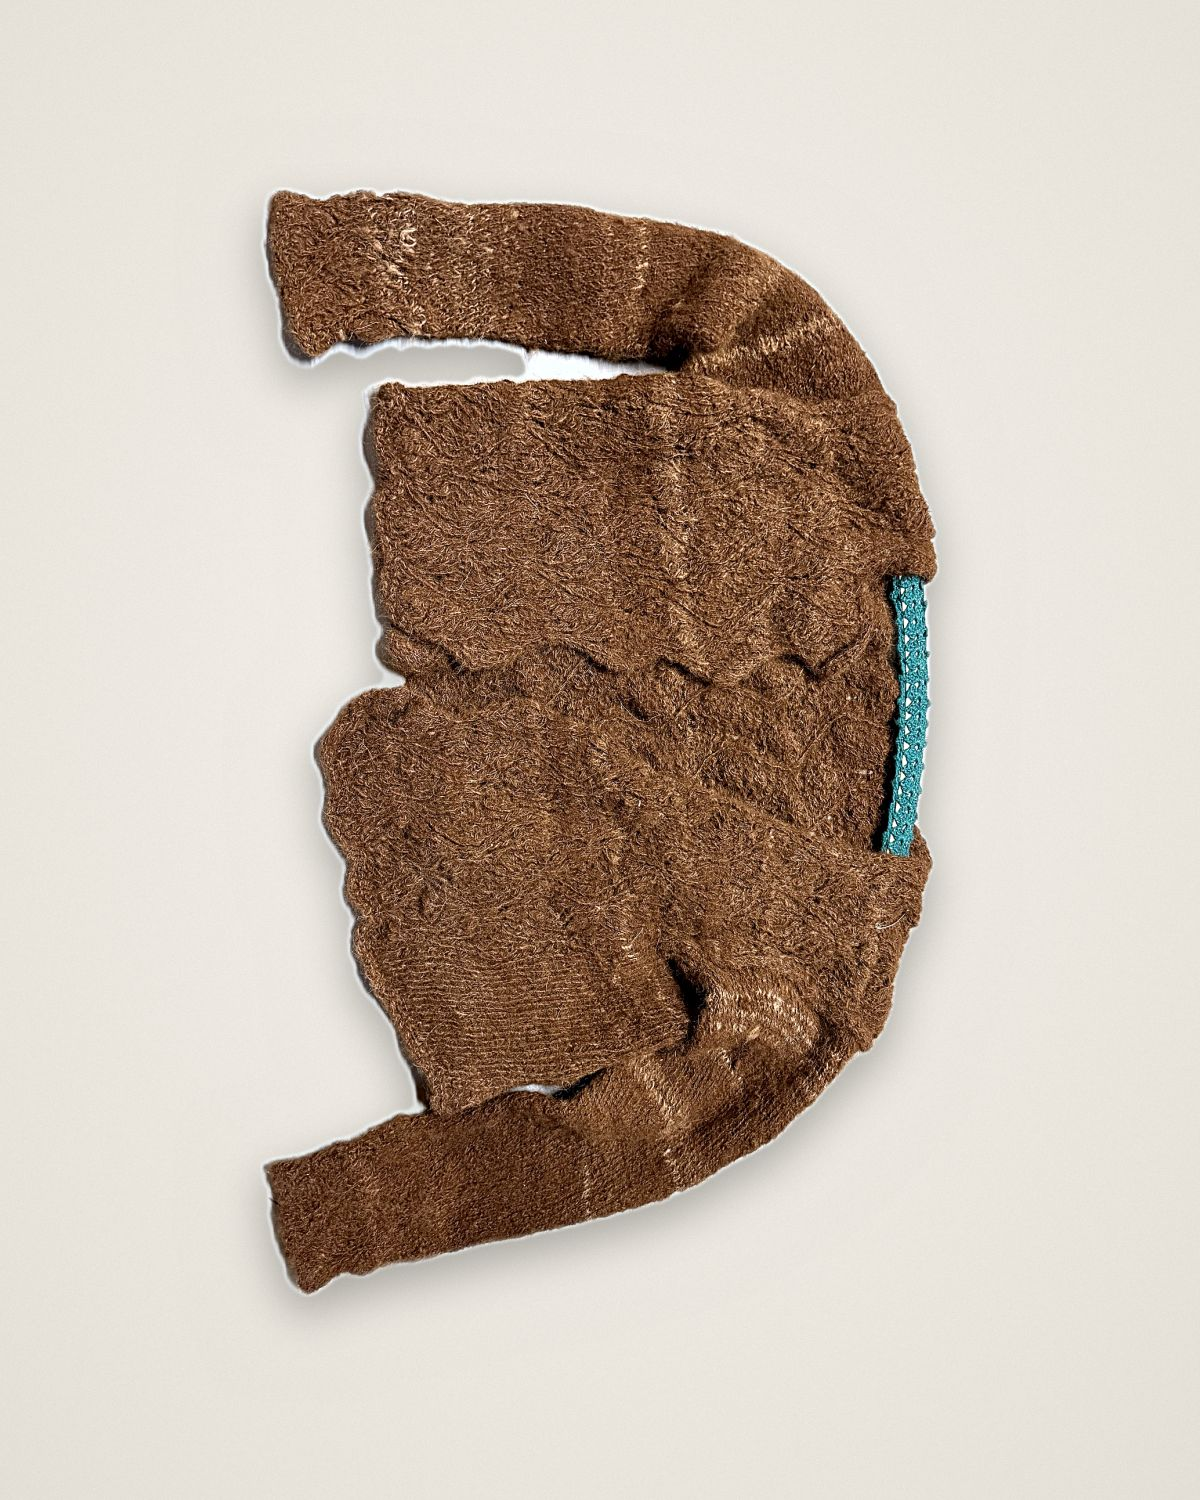
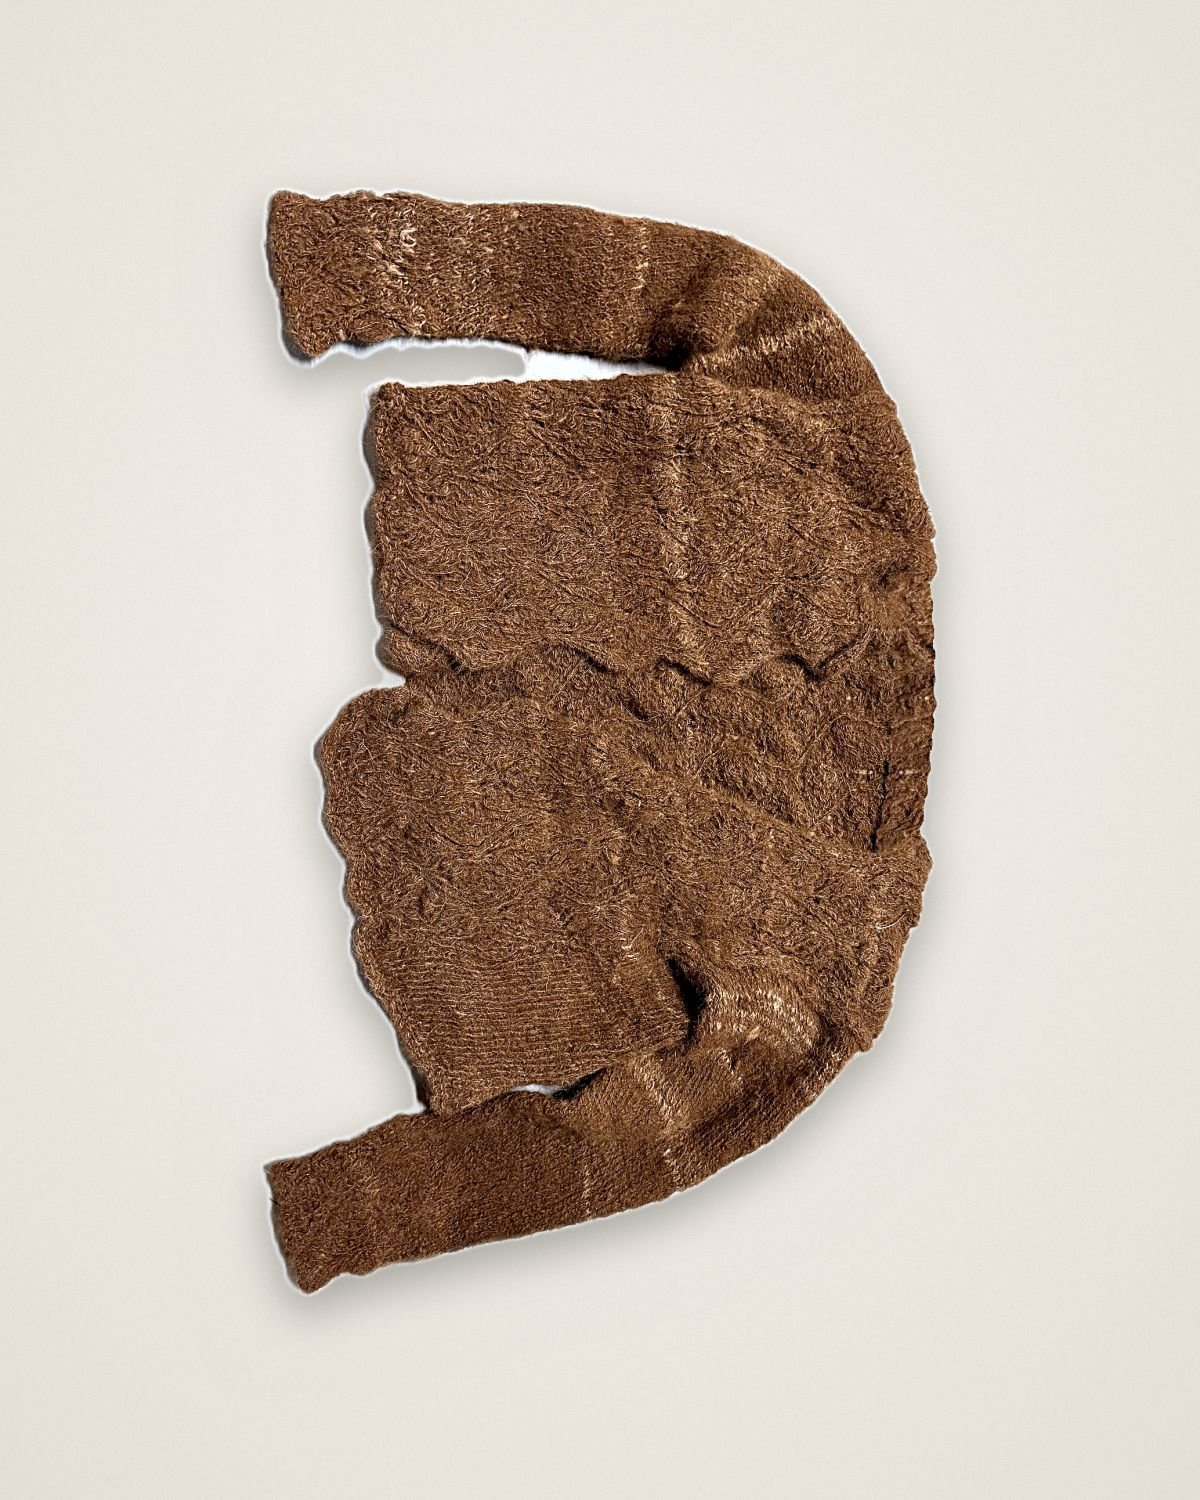
Dyra cardigan: fjern den grønne hengeren (patch-fill fra ullteksturen)
Claude-Session: https://claude.ai/code/session_01SpueyKJAV1C4GdRnZTuKQi

Changed region(s): [[0.7092, 0.368, 0.8017, 0.5827]]

diff --git a/scripts/studio-pass.py b/scripts/studio-pass.py
@@ -123,6 +123,10 @@ def compose(img_rgb, alpha, out_w, out_h, fill=0.74):
 
 def process(pid):
     src = os.path.join(SRC, f"IMG_{pid}_studio_2000x2500.jpg")
+    # a retouched source (e.g. hanger removed) takes precedence when present
+    fixed = os.path.join(SRC, f"IMG_{pid}_studio_2000x2500_nohanger.jpg")
+    if os.path.exists(fixed):
+        src = fixed
     bgr = cv2.imread(src)
     mask = object_mask(bgr)
     graded = grade(bgr, mask)
